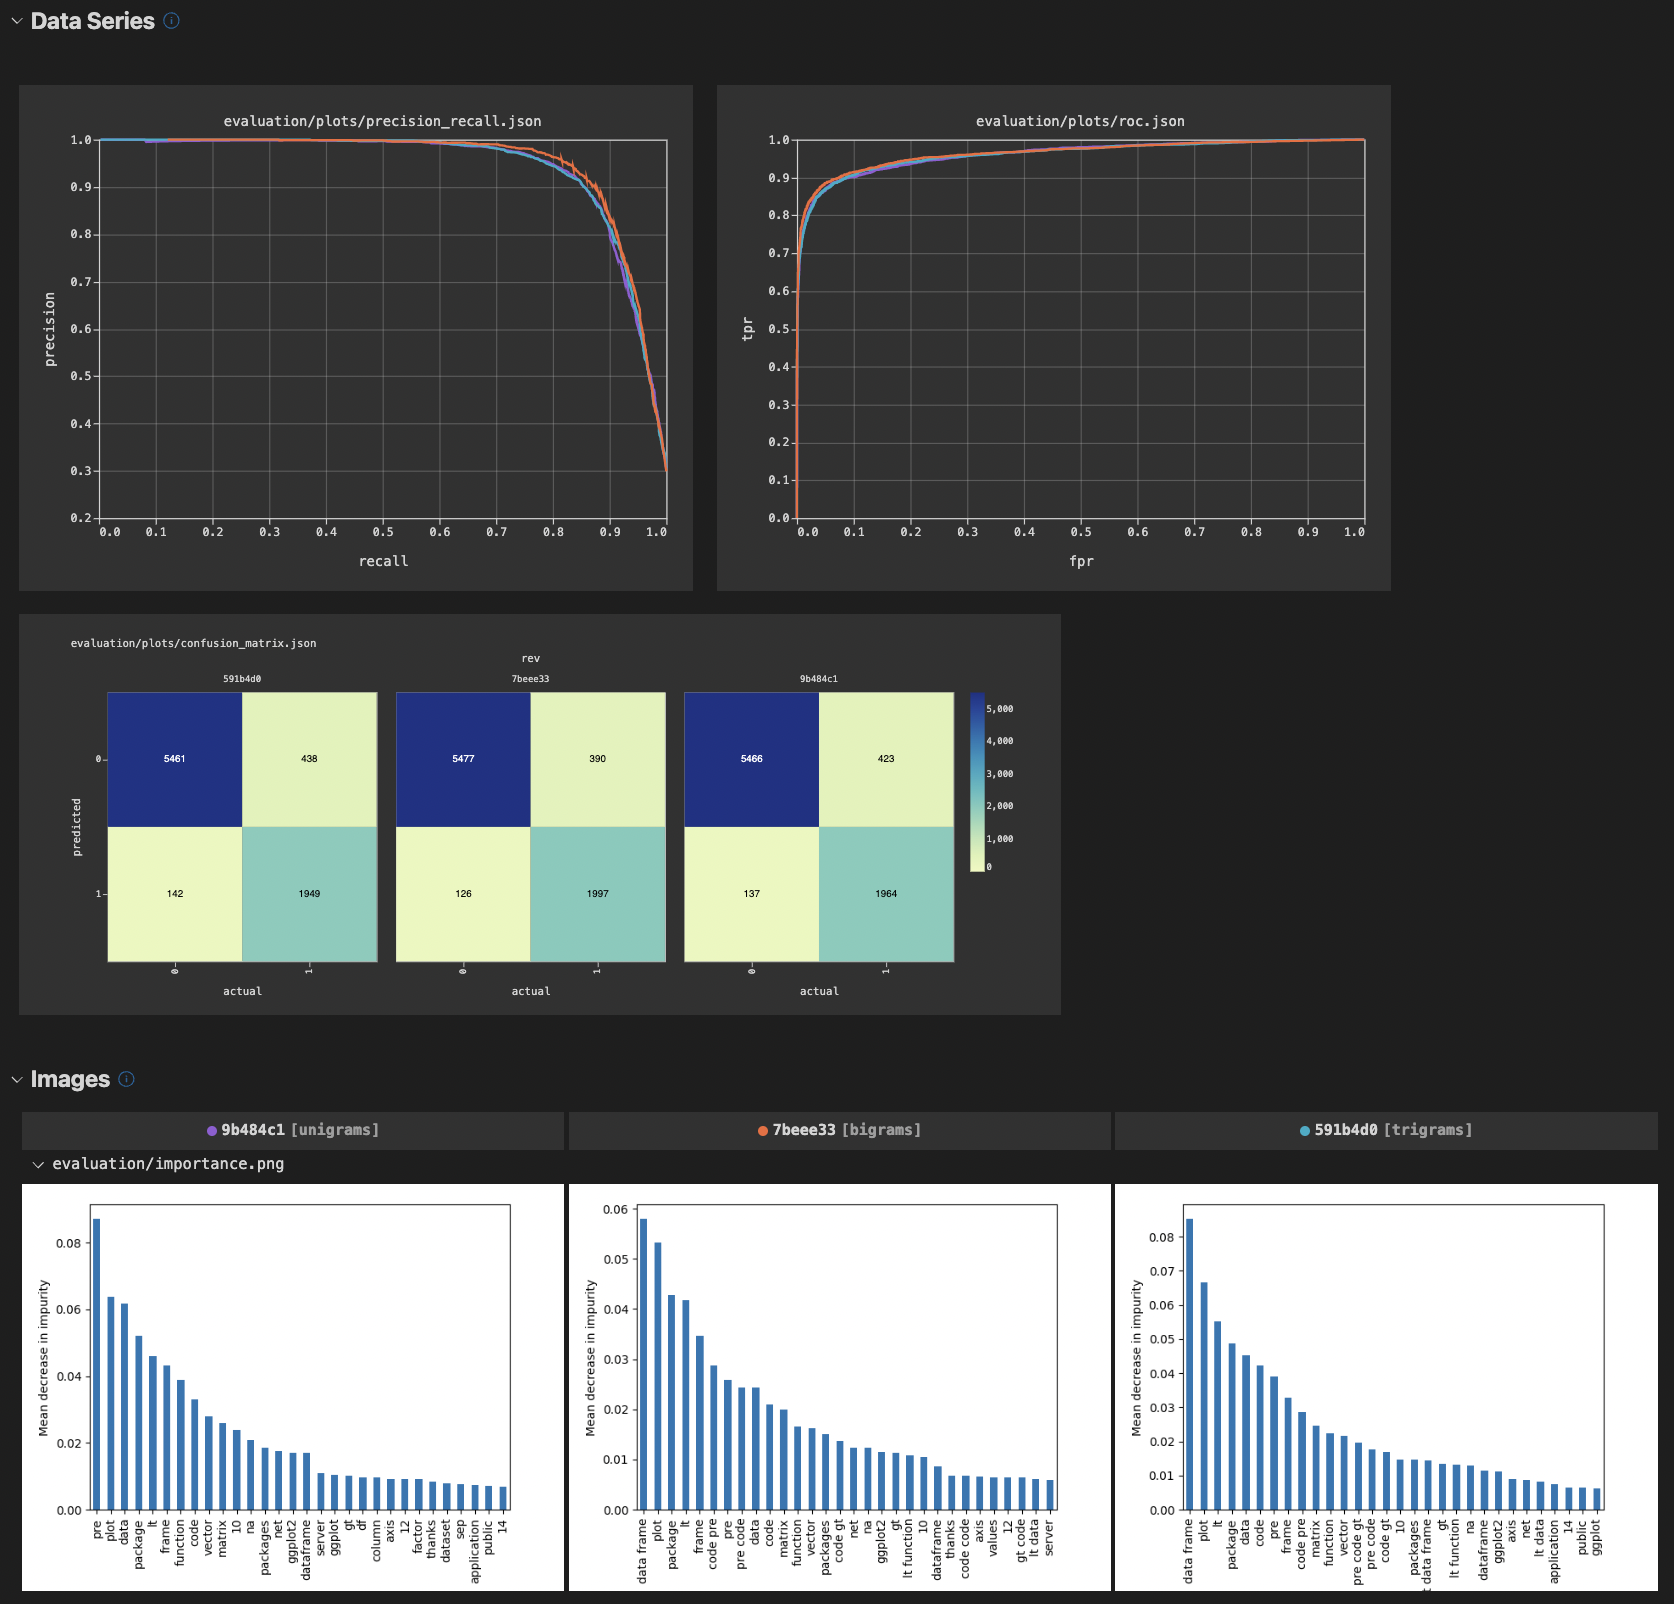
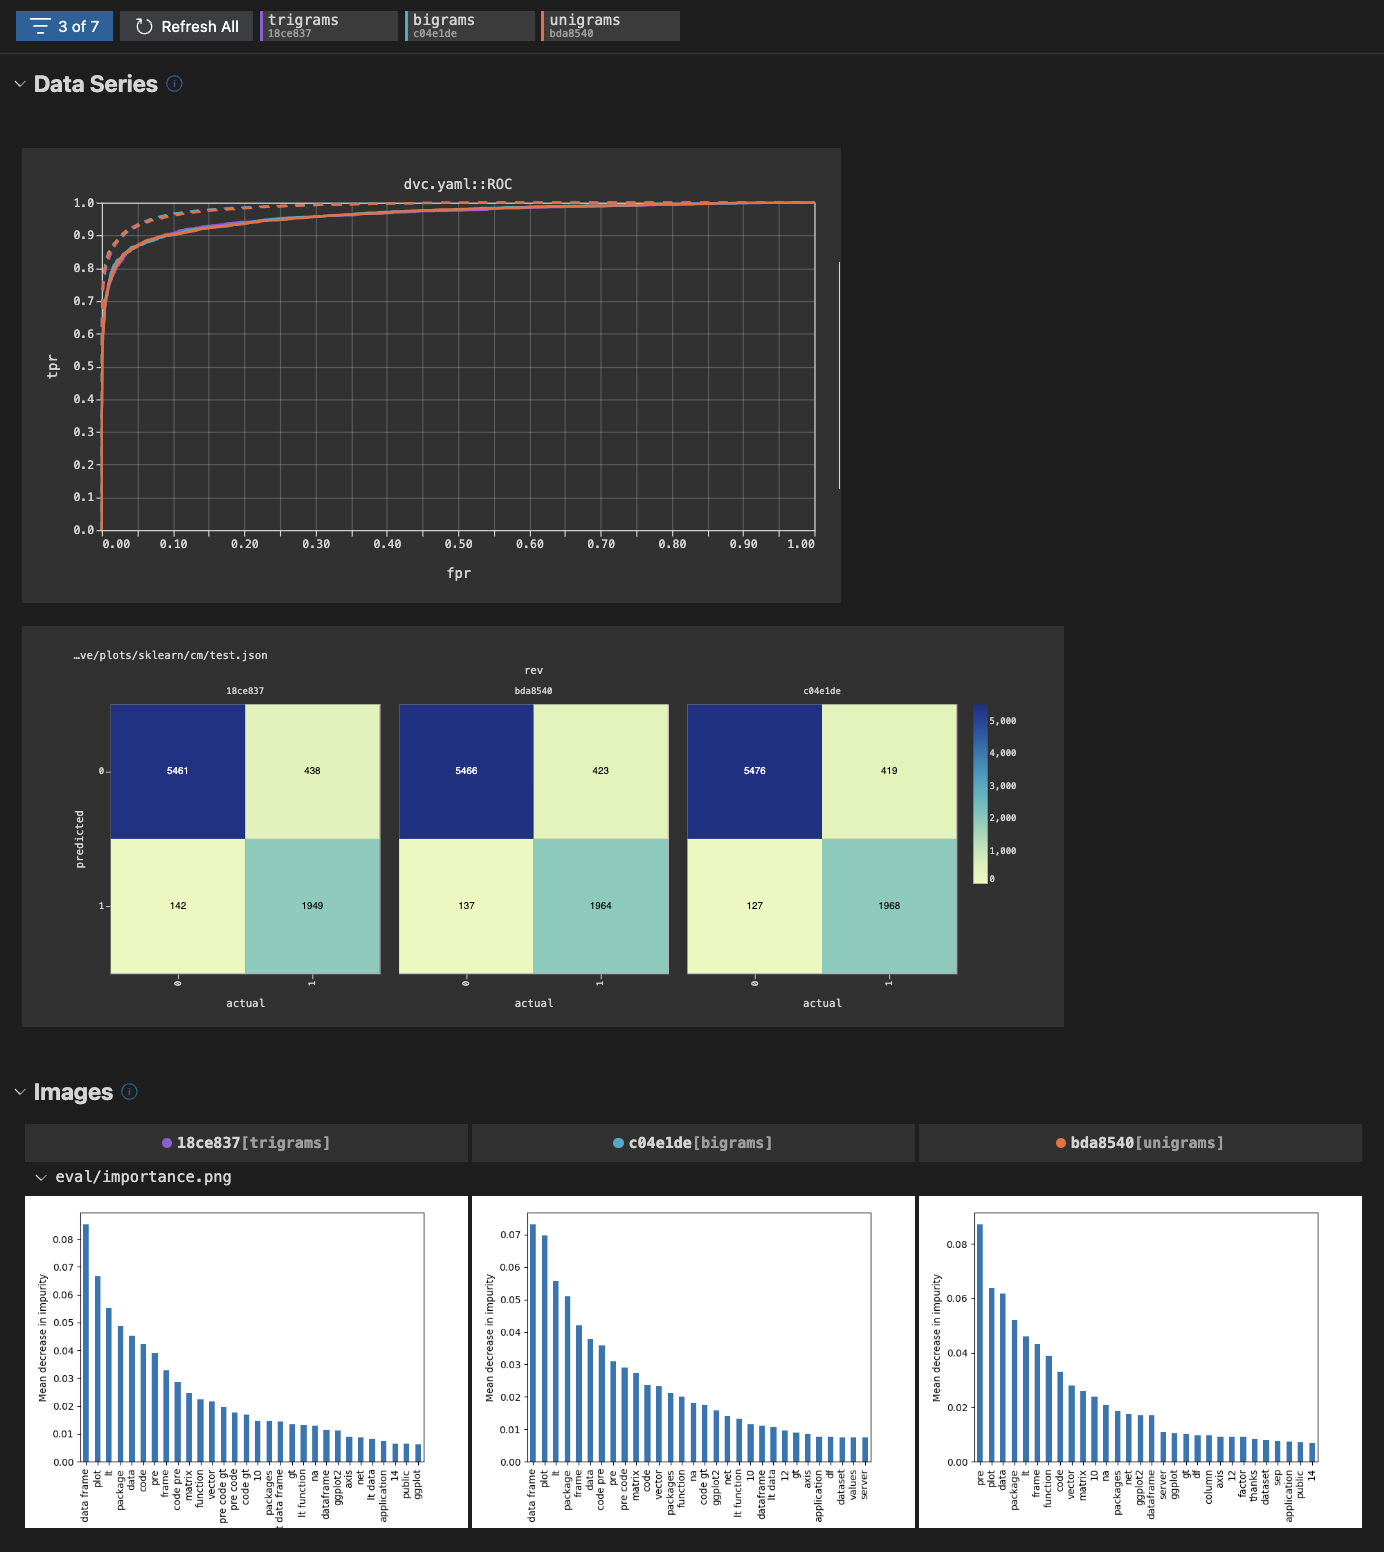
guide: use top-level plots

Changed region(s): [[0.0, 0.6495, 0.9942, 1.0], [0.0311, 0.4021, 0.7457, 0.6495], [0.0, 0.0, 0.8078, 0.3711]]

diff --git a/content/docs/user-guide/experiment-management/visualizing-plots.md b/content/docs/user-guide/experiment-management/visualizing-plots.md
@@ -22,7 +22,7 @@ workflow is:
    ```yaml
    plots:
      # Data series source
-     - evaluation/test/plots/confusion_matrix.json:
+     - eval/live/plots/sklearn/cm/test.json:
          # Configure template and axes.
          template: confusion
          x: actual
@@ -32,11 +32,11 @@ workflow is:
      - ROC:
          x: fpr
          y:
-           evaluation/train/plots/roc.json: tpr
-           evaluation/test/plots/roc.json: tpr
+           eval/live/plots/sklearn/roc/train.json: tpr
+           eval/live/plots/sklearn/roc/test.json: tpr
 
      # Image file source
-     - evaluation/importance.png
+     - eval/importance.png
    ```
 
 3. [Show](/doc/command-reference/plots/show) all plots in a single view or
